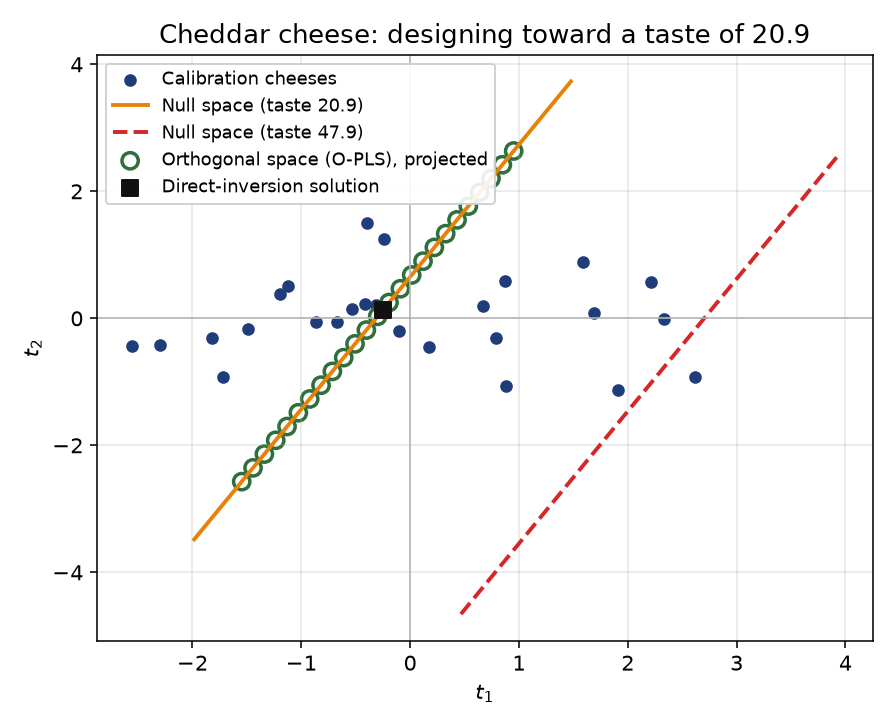
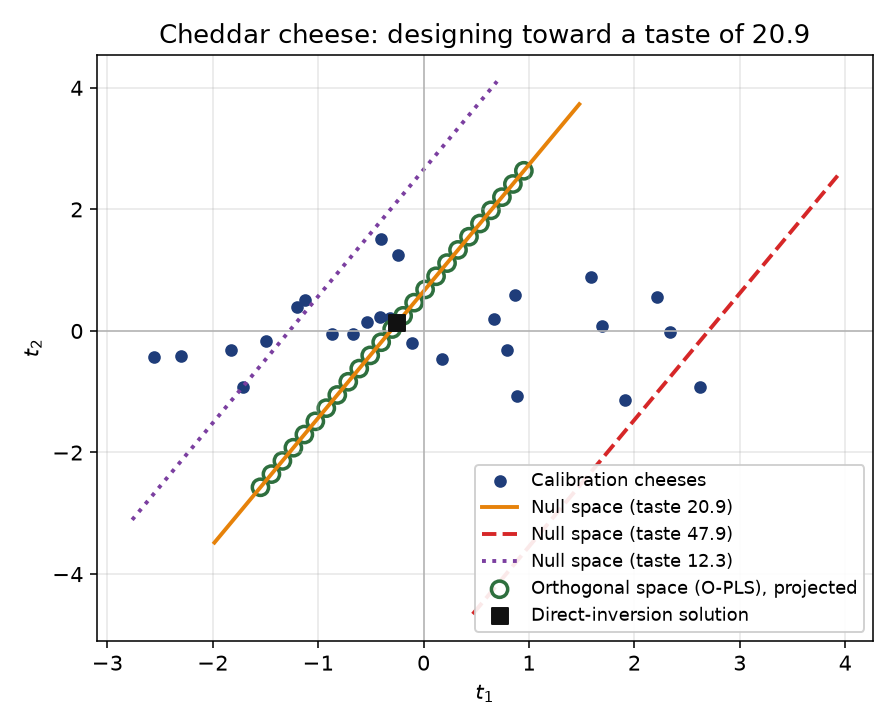
Add the lowest-taste inversion (12.3) as a third, parallel null-space line
Adds a purple dotted null-space line for the lowest held-out taste (cheese 1,
12.3), in a cool colour contrasting the warm orange and red. All three lines
are exactly parallel (shared direction g = [0.433, 0.902]); only the offset
shifts with the target, confirming that a single-response model has one fixed
null-space direction.

Claude-Session: https://claude.ai/code/session_01DsTypY4FcRbrXRxorb9raz

diff --git a/pls/pls-model-inversion-null-space.py b/pls/pls-model-inversion-null-space.py
@@ -41,10 +41,12 @@ DATA_URL = "https://openmv.net/file/cheddar-cheese.csv"
 X_COLUMNS = ["Acetic", "H2S", "Lactic"]
 TARGET_TASTE = 20.9   # the main inversion, drawn as the orange null space
 SECOND_TASTE = 47.9   # a second inversion (held-out cheese 4), drawn red dashed
+THIRD_TASTE = 12.3    # the lowest held-out taste (cheese 1), drawn purple dotted
 
 DARK_BLUE = "#1f3d7a"  # calibration cheeses
 ORANGE = "#e6820a"     # the null space (PLS) for the main target
 RED = "#d62728"        # the null space for the second target
+PURPLE = "#7b3fa0"     # the null space for the lowest target (a cool contrast)
 GREEN = "#2e6f3e"      # the orthogonal space (O-PLS), projected into PLS space
 BLACK = "#111111"      # the direct-inversion solution
 plt.rcParams.update(
@@ -82,6 +84,10 @@ def build_figure(out_dir: Path) -> None:
     tau2 = result2.scores.to_numpy()
     ns_line2 = np.array([tau2 + s * g_ns for s in steps])
 
+    result3 = pls.invert(y_desired=THIRD_TASTE)
+    tau3 = result3.scores.to_numpy()
+    ns_line3 = np.array([tau3 + s * g_ns for s in steps])
+
     # O-PLS orthogonal space: walk along the orthogonal loading in the input
     # space (scaled), starting from the O-PLS design, then project into the PLS
     # score space with the direct weights. These points should land on the NS.
@@ -107,6 +113,14 @@ def build_figure(out_dir: Path) -> None:
         lw=2,
         linestyle="--",
         label=f"Null space (taste {SECOND_TASTE})",
+    )
+    ax.plot(
+        ns_line3[:, 0],
+        ns_line3[:, 1],
+        color=PURPLE,
+        lw=2,
+        linestyle=":",
+        label=f"Null space (taste {THIRD_TASTE})",
     )
     ax.scatter(
         os_points[:, 0],
